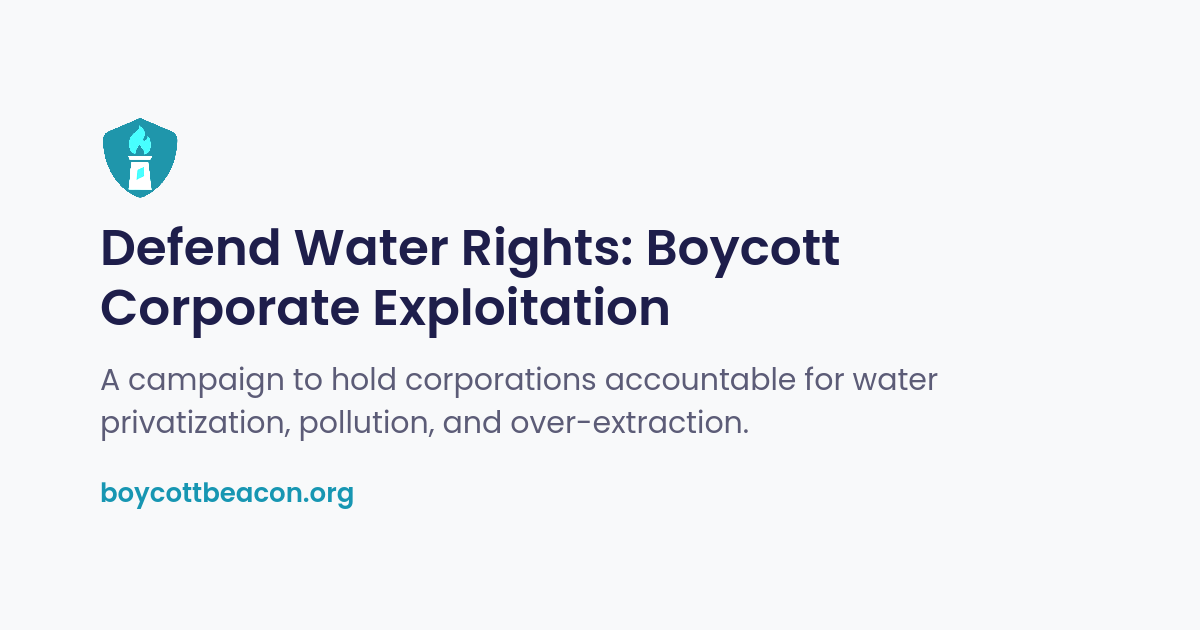
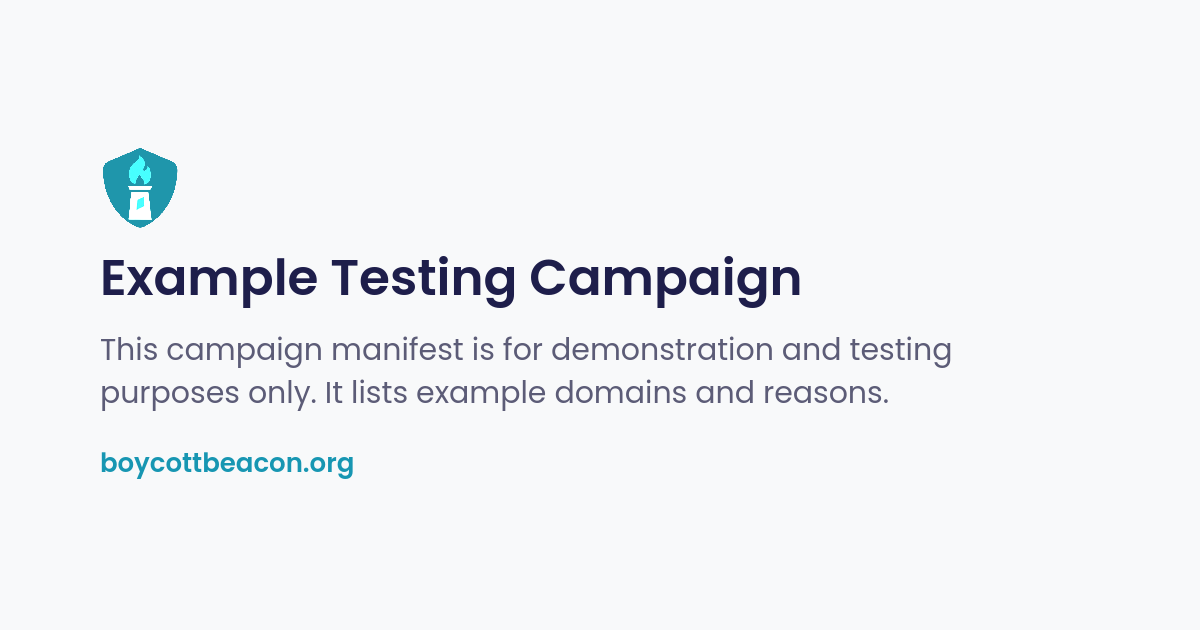
Clarifying campaign template

Changed region(s): [[0.0617, 0.181, 0.8017, 0.6937], [0.0617, 0.7238, 0.3083, 0.8143]]

diff --git a/content/english/campaigns/campaign-1/index.md b/content/english/campaigns/campaign-1/index.md
@@ -1,48 +1,46 @@
 ---
-title: "Defend Water Rights: Boycott Corporate Exploitation"
-date: 2024-03-15T10:00:00+06:00
+title: "Example Testing Campaign"
+date: 2024-01-01T12:00:00+00:00 # Use a consistent date or today's date
 draft: false
 # meta description
-description: "A campaign to hold corporations accountable for water privatization, pollution, and over-extraction."
-image: "og.png" 
-tags: ["environment", "water-rights", "corporate-accountability", "nestle", "pepsi", "coke"]
-# notice download link (optional JSON of targeted companies)
-author: "Jane Doe"
-author_title: "Environmental Activist"
-author_image: "author.png"
-author_socials:
-  - platform: "twitter"
-    name: "Twitter"
-    link: "https://twitter.com/janedoe"
-  - platform: "linkedin"
-    name: "LinkedIn"
-    link: "https://linkedin.com/in/janedoe"
+description: "This campaign manifest is for demonstration and testing purposes only. It lists example domains and reasons."
+image: "og.png" # Assume you'll create a placeholder og.png in this folder
+tags: ["testing", "example", "demonstration"]
+# Optional: Add placeholder author/orgs or remove these sections
+author: "Beacon Dev Team"
+author_title: "Testers & Developers"
+# author_image: "path/to/placeholder-author.png" # Optional
+# author_socials:
+#   - platform: "github"
+#     name: "GitHub"
+#     link: "https://github.com/neural-loop/boycott-beacon" # Link to your project
 
-supporting_orgs:
-  - name: "Climate Action Now"
-    logo: "supportedby.png"
-    website: "https://climateaction.org"
-    discord: "https://discord.gg/climateaction"
+# supporting_orgs:
+#   - name: "Test Support Group"
+#     logo: "path/to/placeholder-support.png" # Optional
+#     website: "#"
+#     discord: "#"
 ---
 
-### About
+### About This Test Campaign
 
-The **"Defend Water Rights"** campaign exposes corporations that prioritize profit over people by exploiting public water resources. From draining aquifers in drought-stricken regions to contaminating drinking water with toxic chemicals, these companies jeopardize ecosystems and human health. This movement empowers communities to take action through boycotts, advocacy, and education.
+This page describes an **example campaign** created solely for testing and demonstrating the features of the Boycott Beacon browser extension and website theme. The domains listed (like `example.com`, `example.org`) are standard internet domain names used for documentation and testing – they are **not** part of a real boycott.
 
-### Key Issues
+### Purpose
 
-- **Privatization**: Companies like Nestlé (BlueTriton) extract millions of gallons of water for bottled products, often at the expense of local communities.
-- **Pollution**: Chemical giants (DuPont, Dow) have contaminated water supplies with PFAS and other toxins.
-- **Over-Extraction**: Beverage corporations (Coca-Cola, PepsiCo) exacerbate water scarcity in vulnerable areas.
+-   Demonstrate how campaign details are displayed.
+-   Test the layout for targets, reasons, and citations.
+-   Show how users can subscribe using the Boycott Beacon extension.
+-   Verify the functionality of the website template.
 
-### How to Participate
+### How to Use for Testing
 
-1. **Boycott**: Avoid products from implicated companies (see [downloadable list](#)).
-2. **Advocate**: Support legislation like the **Water Affordability, Transparency, and Equity (WATE) Act**.
-3. **Educate**: Share resources on social media with #WaterIsAHumanRight.
+1.  **Subscribe (Requires Extension):** Click the "Subscribe to Campaign" button (if you have the Boycott Beacon extension installed) to add this test list to your extension.
+2.  **Visit Targets:** Navigate to `http://example.com`, `http://example.org`, or `http://example.net` in your browser.
+3.  **Observe:** You should see the Boycott Beacon ribbon appear, displaying the reasons and details defined in the `campaign.json` file for this test campaign.
 
-### Campaign Demands
+### Example Demands (Placeholder)
 
-- **Transparency**: Public disclosure of corporate water usage and impacts.
-- **Restitution**: Cleanup of polluted water sources and compensation for affected communities.
-- **Policy Change**: Bans on water extraction in drought zones and stricter pollution fines.
+-   Demand 1: Verify ribbon display.
+-   Demand 2: Check citation formatting.
+-   Demand 3: Ensure subscription works.

diff --git a/content/english/campaigns/campaign-3/index.md b/content/english/campaigns/campaign-3/index.md
@@ -1,0 +1,48 @@
+---
+title: "Defend Water Rights: Boycott Corporate Exploitation"
+date: 2024-03-15T10:00:00+06:00
+draft: false
+# meta description
+description: "A campaign to hold corporations accountable for water privatization, pollution, and over-extraction."
+image: "og.png" 
+tags: ["environment", "water-rights", "corporate-accountability", "nestle", "pepsi", "coke"]
+# notice download link (optional JSON of targeted companies)
+author: "Jane Doe"
+author_title: "Environmental Activist"
+author_image: "author.png"
+author_socials:
+  - platform: "twitter"
+    name: "Twitter"
+    link: "https://twitter.com/janedoe"
+  - platform: "linkedin"
+    name: "LinkedIn"
+    link: "https://linkedin.com/in/janedoe"
+
+supporting_orgs:
+  - name: "Climate Action Now"
+    logo: "supportedby.png"
+    website: "https://climateaction.org"
+    discord: "https://discord.gg/climateaction"
+---
+
+### About
+
+The **"Defend Water Rights"** campaign exposes corporations that prioritize profit over people by exploiting public water resources. From draining aquifers in drought-stricken regions to contaminating drinking water with toxic chemicals, these companies jeopardize ecosystems and human health. This movement empowers communities to take action through boycotts, advocacy, and education.
+
+### Key Issues
+
+- **Privatization**: Companies like Nestlé (BlueTriton) extract millions of gallons of water for bottled products, often at the expense of local communities.
+- **Pollution**: Chemical giants (DuPont, Dow) have contaminated water supplies with PFAS and other toxins.
+- **Over-Extraction**: Beverage corporations (Coca-Cola, PepsiCo) exacerbate water scarcity in vulnerable areas.
+
+### How to Participate
+
+1. **Boycott**: Avoid products from implicated companies (see [downloadable list](#)).
+2. **Advocate**: Support legislation like the **Water Affordability, Transparency, and Equity (WATE) Act**.
+3. **Educate**: Share resources on social media with #WaterIsAHumanRight.
+
+### Campaign Demands
+
+- **Transparency**: Public disclosure of corporate water usage and impacts.
+- **Restitution**: Cleanup of polluted water sources and compensation for affected communities.
+- **Policy Change**: Bans on water extraction in drought zones and stricter pollution fines.
